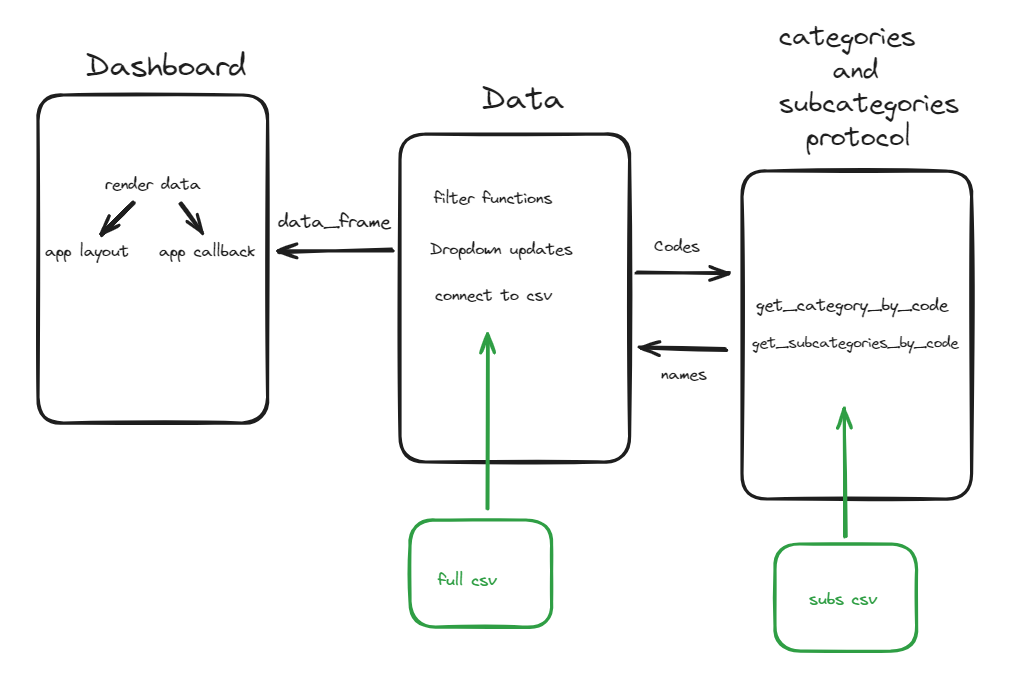
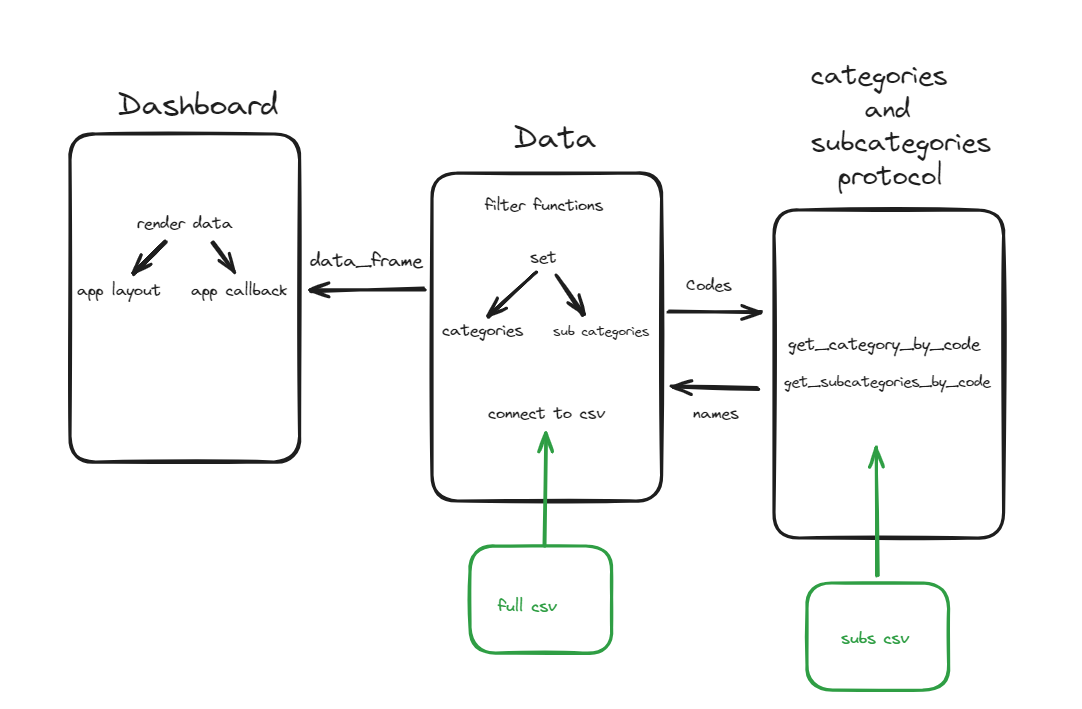
new full csv

Changed region(s): [[0.0306, 0.0312, 0.9793, 0.997]]

diff --git a/new_data.py b/new_data.py
@@ -1,11 +1,73 @@
-from pandas import read_csv, concat
+from pandas import read_csv, concat, notna
 
 from categories_and_subcategories_protocol import *
 
 #url
-url = 'https://raw.githubusercontent.com/Keynell272/Prueba/Andres_developement/2023%20Estado%20del%20cumplimiento%20de%20recomendaciones%20UNESCO%20en%20países%20miembros%20de%20LA%20Referencia.xlsx%20-%20Todo.csv'
+url = 'https://raw.githubusercontent.com/Keynell272/Prueba/Andres_developement/full.csv'
 
-#get data from csv
-data_frame = read_csv(url, delimiter=',', encoding='utf-8')
+def get_all_data():
+    try:
+        #get data from csv skipping first two rows and ignoring last 8 rows
+        data_frame = read_csv(url, delimiter=',', encoding='utf-8', skiprows=2,skipfooter=8,engine='python',dtype={'SUBDISCIPLINES': str})
+        return data_frame
+    except Exception as e:
+        print(f"Error loading data: {e}")
+        return None
+    
 
-print(data_frame)
+########################## SET CATEGORIAS ##########################
+def get_categories_set():
+    data_frame = get_all_data()
+
+    if data_frame is not None:
+        # extract codes
+        categories = data_frame['SUBDISCIPLINES'].unique()
+        # create empty set
+        categories_set = set()
+
+        # Iterate through the categories and extract the first two digits of each code
+        for code in categories:
+            # Check if the code is not null
+            if notna(code):
+                # Divide el código por comas y luego extrae los primeros dos dígitos de cada parte
+                segments = [part[:2] for part in code.split(',')]
+                # Agrega los primeros dos dígitos al conjunto
+                categories_set.update(segments)
+
+        return categories_set
+    else:
+        return set()
+
+########################## SET SUBCATEGORIAS ##########################
+def get_subcategories_set():
+    data_frame = get_all_data()
+
+    if data_frame is not None:
+        # extract codes
+        codes = data_frame['SUBDISCIPLINES'].unique()
+        # create empty set
+        subcategories_set = set()
+
+        # Iterate through the categories and extract the first two digits of each code
+        for code in codes:
+            # Check if the code is not null
+            if notna(code):
+                # Divide el código por comas y luego extrae los primeros dos dígitos de cada parte
+                segments = [part for part in code.split(',')]
+                # Agrega los primeros dos dígitos al conjunto
+                subcategories_set.update(segments)
+
+        return subcategories_set
+    else:
+        return set()
+    
+
+########################## GET CATEGORY NAMES ##########################
+def get_categories():
+    categories_codes= list(get_categories_set())
+    category_names = []
+    for code in categories_codes:
+        category_names.append(get_category_by_code(code))
+    return category_names
+
+print(get_all_data()['SUBDISCIPLINES'].unique())
